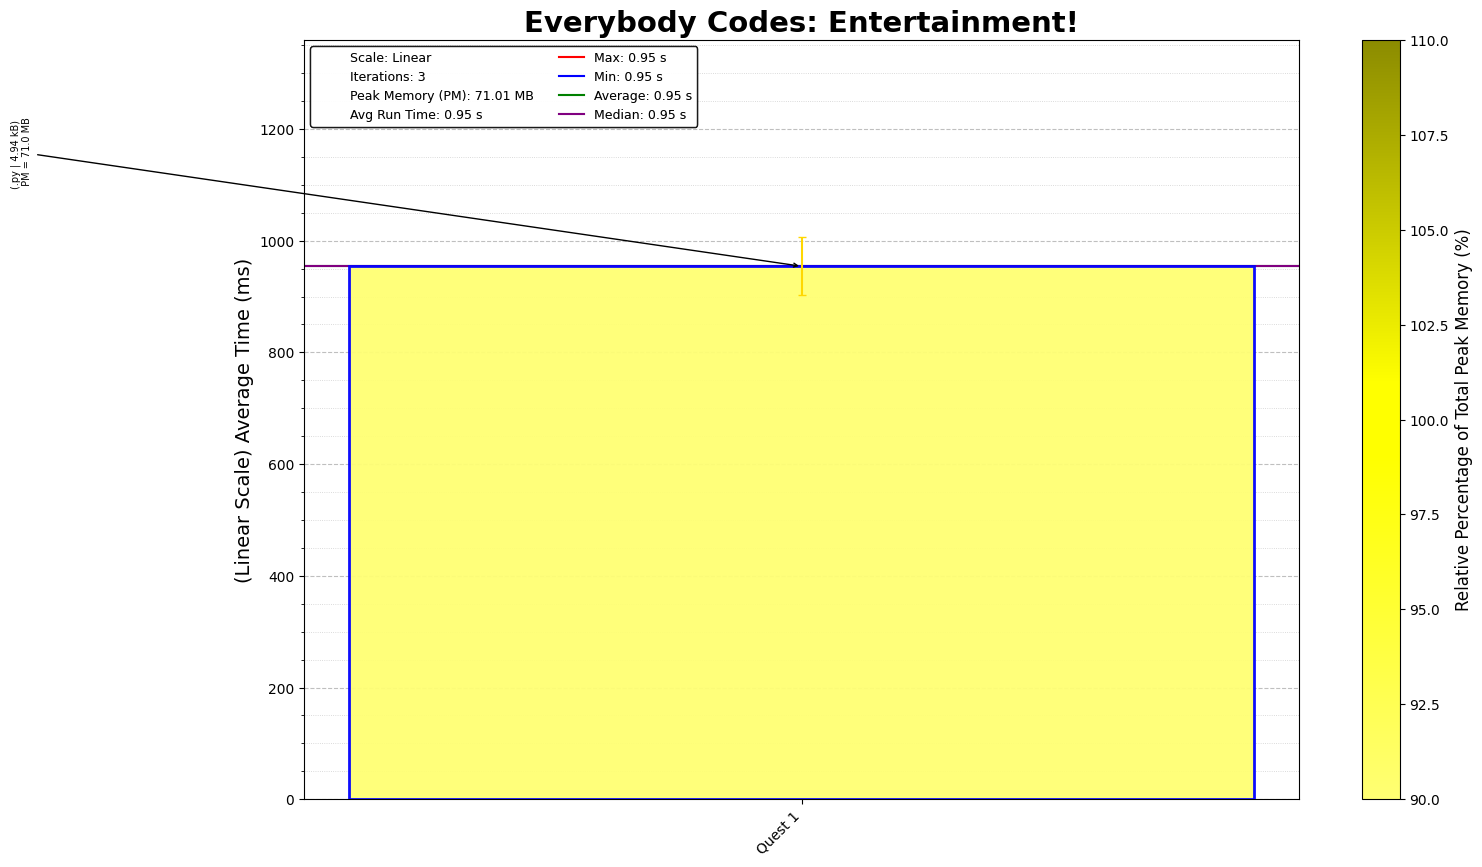
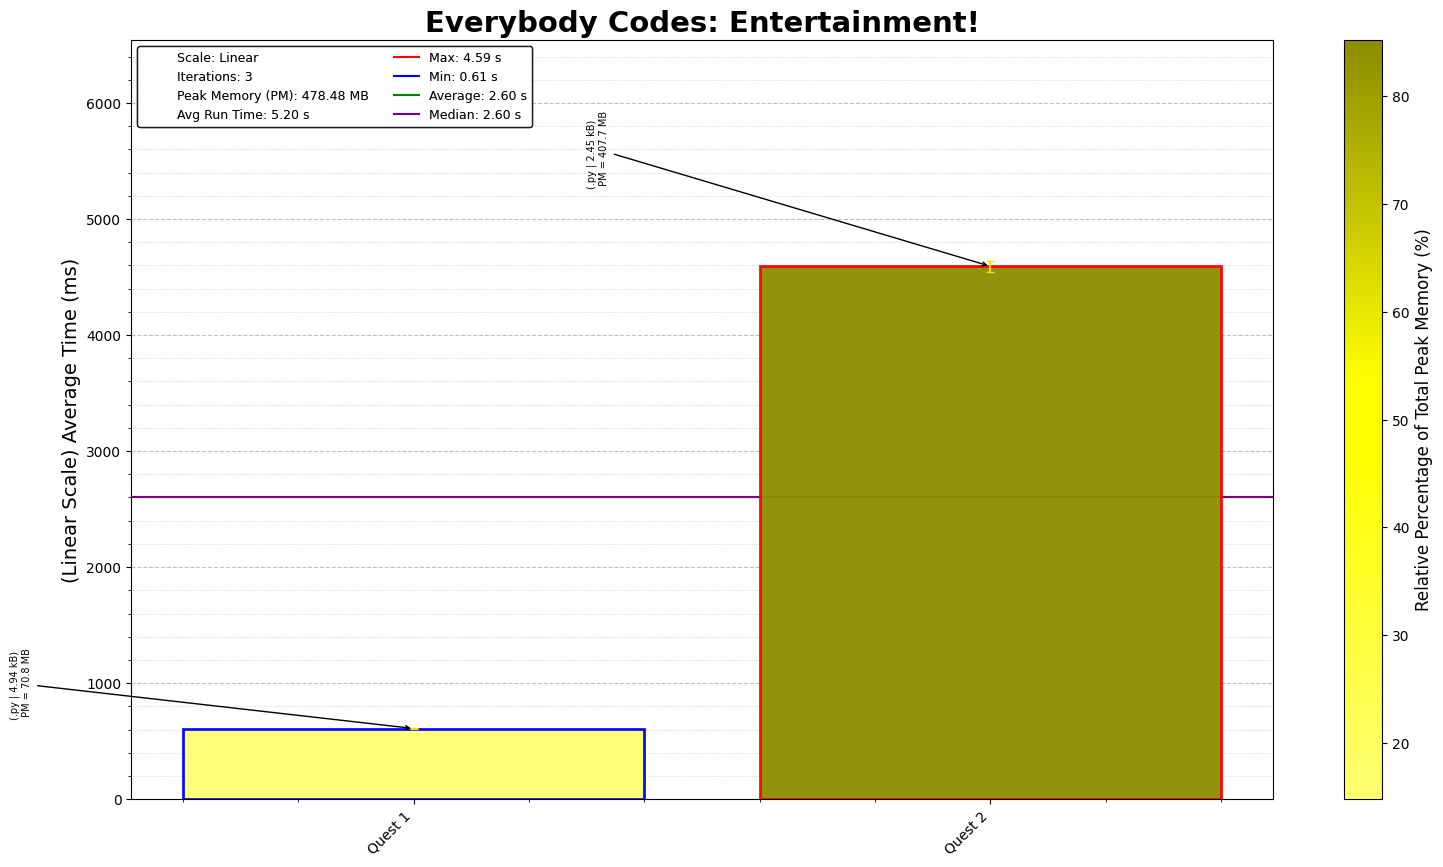
EC Story: Entertainment Hub

diff --git a/Stories/Entertainment_Hub/02/EntertainmentDay02.py b/Stories/Entertainment_Hub/02/EntertainmentDay02.py
@@ -1,0 +1,83 @@
+"""Everybody Codes - Quest 2, Story Enigmatus
+Solution Started: August 27, 2025
+Puzzle Link: https://everybody.codes/story/2/quests/2
+Solution by: Abbas Moosajee
+Brief: [The Pocket-Money Popper]"""
+
+#!/usr/bin/env python3
+from pathlib import Path
+
+# List of input file names
+input_files = ["Quest02_input_p1.txt", "Quest02_input_p2.txt", "Quest02_input_p3.txt"]
+
+# Read and split the input data into individual lists
+input_data_p1, input_data_p2, input_data_p3 = [
+    open(Path(__file__).parent / file).read().strip().split('\n')
+    for file in input_files
+]
+
+class PocketPopper:
+    FLUFF_BOLTS = ["R", "G", "B"]
+    def __init__(self, balloons):
+        self.balloons_order = list(balloons)
+
+    def shoot_bolts_linear(self):
+        balloons = self.balloons_order.copy()
+        bolts_shot = 0
+        bolt_idx = 0
+
+        while balloons:
+            bolt_color = self.FLUFF_BOLTS[bolt_idx]
+            bolt_idx = (bolt_idx + 1) % len(self.FLUFF_BOLTS)
+            bolts_shot += 1
+
+            # Pop matching balloons from the front
+            while balloons and bolt_color == balloons[0]:
+                balloons.pop(0)
+
+            # Pop one non-matching balloon if exists
+            if balloons:
+                balloons.pop(0)
+
+        return bolts_shot
+
+    def shoot_bolts_circular(self, repeat_count: int = 100):
+        balloons = self.balloons_order * repeat_count
+        remaining = n = len(balloons)
+        popped = [False] * n
+        bolts_shot = 0
+        bolt_idx = 0
+        idx = 0
+
+        while remaining > 0:
+            bolts_shot += 1
+            bolt_color = self.FLUFF_BOLTS[bolt_idx]
+            bolt_idx = (bolt_idx + 1) % len(self.FLUFF_BOLTS)
+
+            # --- record front balloon before popping ---
+            while popped[idx]:
+                idx += 1
+
+            if (remaining % 2) == 0 and bolt_color == balloons[idx]:
+                mid_index = -remaining // 2
+                popped[mid_index] = True
+                remaining -= 1
+
+            popped[idx] = True
+            remaining -= 1
+
+        return bolts_shot
+
+pops_p1 = PocketPopper(input_data_p1[0])
+bolts_p1  = pops_p1.shoot_bolts_linear()
+print("Quest 1:", bolts_p1)
+
+
+pops_p21 = PocketPopper(input_data_p2[0])
+bolts_p21  = pops_p21.shoot_bolts_circular(100)
+print("Quest 2:", bolts_p21)
+
+pops_p3 = PocketPopper(input_data_p3[0])
+bolts_p3  = pops_p3.shoot_bolts_circular(100000)
+print("Quest 3:", bolts_p3)
+

diff --git a/Stories/Entertainment_Hub/README_Entertainment.md b/Stories/Entertainment_Hub/README_Entertainment.md
@@ -6,3 +6,4 @@
 ## Day-by-Day Coding Overview
 
 1. **Quest 1 - Nail Down Your Luck**: Simple slot machine puzzle, that requires you to follow fairly simple set of rules. Couple of tricky steps, with how to handle the starting and final slots, but overall nothing too tricky. Part 3 was kind of interesting but scipy, simplified it. Potential for a playable game to be created with some visualization.
+2. **Quest 2 - The Pocket-Money Popper**: As is the tradition with most coding problems, this was a fairly simple logic whose complexity grew as you increased the numbers, and especially became tricky to track a changing memory. Which i did by making it a binary choice to keep track of which balloons blew up or not, but ultimately the opposite balloon stumped me for too long, until i found a missing minus sign to solve my troubles.
